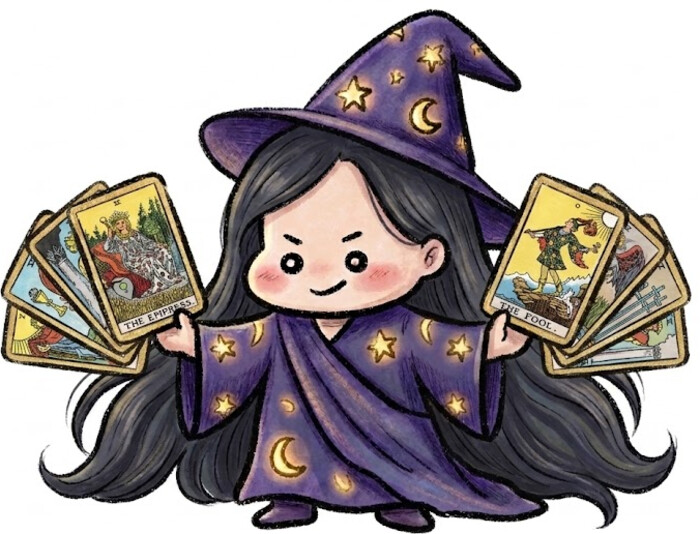
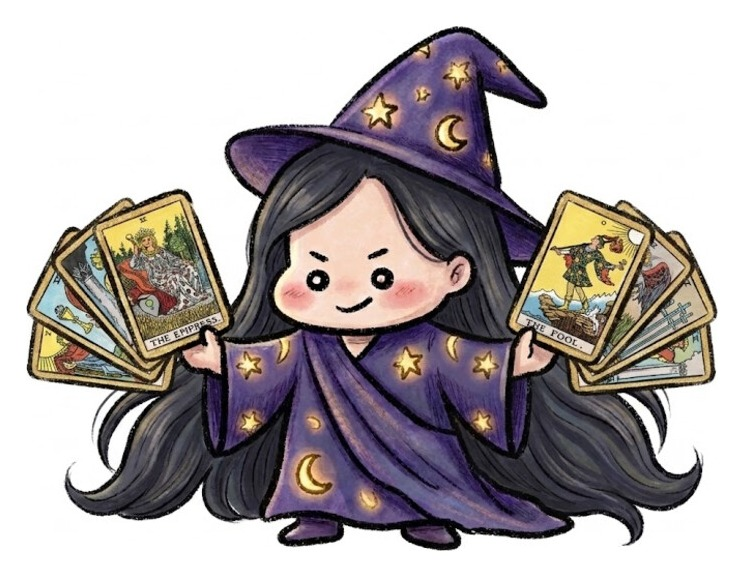
타로 수정

diff --git a/tests/tarot/index.html b/tests/tarot/index.html
@@ -51,7 +51,9 @@
 
   <div class="tarot-stage hidden" id="tarotStage">
     <div class="tarot-flip-card" id="tarotFlipCard">
-      <div class="tarot-flip-face tarot-flip-face-back">🔮</div>
+      <div class="tarot-flip-face tarot-flip-face-back">
+        <img class="tarot-card-back-img" src="../../assets/img/tarot/card-back.jpg" alt="" />
+      </div>
       <div class="tarot-flip-face tarot-flip-face-front" id="tarotFrontFace"></div>
     </div>
   </div>
@@ -131,13 +133,43 @@
     var currentCategory = "all";
     var drawing = false;
     var currentDraw = null;
+    var CARD_BACK_IMG = "../../assets/img/tarot/card-back.jpg";
 
-    // 78장 카드 그리드를 만든다 (앞면은 안 보이고 전부 같은 뒷면)
+    // 78장을 메이저/수트별로 나눠서 각 줄을 부채꼴(fan)로 펼친다 — 스크롤 없이 전부 노출
+    var FAN_GROUPS = [
+      { label: "🌙 메이저 아르카나", test: function (c) { return c.arcana === "major"; } },
+      { label: "🔥 완드", test: function (c) { return c.suit === "wands"; } },
+      { label: "💧 컵", test: function (c) { return c.suit === "cups"; } },
+      { label: "⚔ 소드", test: function (c) { return c.suit === "swords"; } },
+      { label: "🪙 펜타클", test: function (c) { return c.suit === "pentacles"; } },
+    ];
+
     function buildGrid() {
       var html = "";
-      for (var i = 0; i < TAROT_CARDS.length; i++) {
-        html += '<button type="button" class="tarot-grid-card" data-idx="' + i + '">🔮</button>';
-      }
+      FAN_GROUPS.forEach(function (group) {
+        var indices = [];
+        for (var i = 0; i < TAROT_CARDS.length; i++) {
+          if (group.test(TAROT_CARDS[i])) indices.push(i);
+        }
+        var n = indices.length;
+        var arc = Math.min(46, 16 + n * 1.15); // 카드 수가 많을수록 더 넓게 펼침
+        var edgeMargin = 8; // 양 끝 카드가 줄 밖으로 잘려나가지 않도록 여백(%)
+
+        html += '<div class="tarot-fan-row-label">' + group.label + " · " + n + "장</div>";
+        html += '<div class="tarot-fan-row">';
+        indices.forEach(function (idx, pos) {
+          var t = n === 1 ? 0.5 : pos / (n - 1);
+          var angle = -arc + t * arc * 2;
+          var bump = Math.sin(t * Math.PI) * 12; // 가운데가 살짝 위로 볼록해지는 부채꼴 곡선
+          var leftPct = edgeMargin + t * (100 - edgeMargin * 2);
+          html +=
+            '<button type="button" class="tarot-grid-card" data-idx="' + idx + '" ' +
+            'style="--x:' + leftPct.toFixed(2) + '%; --rot:' + angle.toFixed(1) + 'deg; --bump:' + bump.toFixed(1) + 'px; --z:' + (pos + 1) + ';">' +
+            '<img class="tarot-card-back-img" src="' + CARD_BACK_IMG + '" alt="" />' +
+            "</button>";
+        });
+        html += "</div>";
+      });
       gridEl.innerHTML = html;
       gridEl.classList.remove("disabled");
       Array.prototype.forEach.call(gridEl.querySelectorAll(".tarot-grid-card"), function (el) {
@@ -165,16 +197,18 @@
     function buildFrontFace(draw) {
       var card = draw.card;
       var reversed = draw.reversed;
+      // 역방향이어도 카드 "그림"만 뒤집어서 보여주고, 카드 이름/뱃지 텍스트는 항상 똑바로 읽히게 함
+      var revClass = reversed ? " is-reversed" : "";
       frontFace.innerHTML =
         (card.img
-          ? '<img class="tarot-card-img" src="' + card.img + '" alt="' + card.name + ' 타로카드" loading="lazy" ' +
-            'onerror="this.replaceWith(Object.assign(document.createElement(\'div\'),{className:\'tarot-emoji\',textContent:\'' + card.emoji + '\'}))" />'
-          : '<div class="tarot-emoji">' + card.emoji + "</div>") +
+          ? '<img class="tarot-card-img' + revClass + '" src="' + card.img + '" alt="' + card.name + ' 타로카드" loading="lazy" ' +
+            'onerror="this.replaceWith(Object.assign(document.createElement(\'div\'),{className:\'tarot-emoji' + revClass + '\',textContent:\'' + card.emoji + '\'}))" />'
+          : '<div class="tarot-emoji' + revClass + '">' + card.emoji + "</div>") +
         '<div class="tarot-name-en">' + card.nameEn + "</div>" +
         '<div class="tarot-name-ko">' + card.name + "</div>" +
         '<div class="tarot-orientation" style="background:' + card.color + ';">' +
         (reversed ? "역방향 · 조심스러운 기운" : "정방향 · 좋은 기운") + "</div>";
-      frontFace.style.transform = reversed ? "rotateY(180deg) rotate(180deg)" : "rotateY(180deg)";
+      frontFace.style.transform = "rotateY(180deg)";
     }
 
     function showResult(draw) {
@@ -224,11 +258,11 @@
       var originRect = originEl.getBoundingClientRect();
       var flying = document.createElement("div");
       flying.className = "tarot-flying-card";
-      flying.textContent = "🔮";
       flying.style.width = originRect.width + "px";
       flying.style.height = originRect.height + "px";
       flying.style.left = originRect.left + "px";
       flying.style.top = originRect.top + "px";
+      flying.style.backgroundImage = "url('" + CARD_BACK_IMG + "')";
       document.body.appendChild(flying);
 
       var targetW = 220;

diff --git a/assets/css/style.css b/assets/css/style.css
@@ -1032,9 +1032,16 @@ a {
 }
 
 .tarot-flip-face-back {
-  background: linear-gradient(145deg, #2e1065, #4c1d95 55%, #7c3aed);
-  font-size: 54px;
-  color: rgba(255, 255, 255, 0.9);
+  background: #2e1065;
+  overflow: hidden;
+  padding: 0;
+}
+
+.tarot-flip-face-back .tarot-card-back-img {
+  width: 100%;
+  height: 100%;
+  object-fit: cover;
+  display: block;
 }
 
 .tarot-flip-face-front {
@@ -1058,6 +1065,12 @@ a {
 .tarot-flip-face-front .tarot-emoji {
   font-size: 46px;
   margin-bottom: 8px;
+}
+
+/* 역방향 카드는 그림만 180도 뒤집어서 보여주고, 이름/뱃지 텍스트는 똑바로 읽히게 유지 */
+.tarot-flip-face-front .tarot-card-img.is-reversed,
+.tarot-flip-face-front .tarot-emoji.is-reversed {
+  transform: rotate(180deg);
 }
 
 .tarot-flip-face-front .tarot-name-en {
@@ -1171,54 +1184,69 @@ a {
   color: var(--text-main);
 }
 
-/* 78장 카드 그리드 */
+/* 78장 카드 - 수트별로 줄을 나눠 부채꼴(fan)로 펼쳐서 스크롤 없이 한 번에 노출 */
 .tarot-grid-wrap {
-  max-height: 340px;
-  overflow-y: auto;
-  padding: 4px;
+  padding: 4px 2px 8px;
   margin-bottom: 6px;
   border-radius: var(--radius-md);
   background: rgba(124, 58, 237, 0.04);
 }
 
 .tarot-grid {
-  display: grid;
-  grid-template-columns: repeat(8, 1fr);
-  gap: 5px;
+  display: block;
+}
+
+.tarot-fan-row-label {
+  font-size: 12px;
+  font-weight: 800;
+  color: var(--text-sub);
+  margin: 10px 6px 2px;
+}
+
+.tarot-fan-row-label:first-child {
+  margin-top: 4px;
+}
+
+.tarot-fan-row {
+  position: relative;
+  height: 108px;
 }
 
 .tarot-grid-card {
-  position: relative;
+  position: absolute;
+  top: 50%;
+  left: var(--x, 50%);
+  width: 42px;
   aspect-ratio: 2 / 3;
   border-radius: 5px;
-  border: 1px solid rgba(255, 255, 255, 0.35);
+  border: 1px solid rgba(255, 255, 255, 0.4);
   background: linear-gradient(145deg, #2e1065, #4c1d95 55%, #7c3aed);
   cursor: pointer;
   padding: 0;
-  display: flex;
-  align-items: center;
-  justify-content: center;
-  color: rgba(255, 255, 255, 0.75);
-  font-size: 9px;
+  overflow: hidden;
+  transform: translate(-50%, calc(-50% - var(--bump, 0px))) rotate(var(--rot, 0deg));
+  z-index: var(--z, 1);
+  box-shadow: 0 3px 8px rgba(46, 16, 101, 0.35);
   transition: transform 0.12s ease, opacity 0.3s ease, box-shadow 0.12s ease;
 }
 
-.tarot-grid-card::after {
-  content: "";
-  position: absolute;
-  inset: 2px;
-  border: 1px solid rgba(255, 255, 255, 0.3);
-  border-radius: 3px;
+.tarot-grid-card .tarot-card-back-img {
+  display: block;
+  width: 100%;
+  height: 100%;
+  object-fit: cover;
+  border-radius: 4px;
+  pointer-events: none;
 }
 
 .tarot-grid-card:active {
-  transform: scale(0.92);
+  transform: translate(-50%, calc(-50% - var(--bump, 0px))) rotate(var(--rot, 0deg)) scale(0.92);
 }
 
 .tarot-grid-card.picked {
-  box-shadow: 0 0 0 2px #fff, 0 6px 16px rgba(76, 29, 149, 0.5);
-  transform: scale(1.12);
-  z-index: 5;
+  transform: translate(-50%, calc(-50% - var(--bump, 0px))) rotate(var(--rot, 0deg)) scale(1.22) translateY(-10px);
+  box-shadow: 0 0 0 2px #fff, 0 10px 22px rgba(76, 29, 149, 0.55);
+  z-index: 999 !important;
 }
 
 .tarot-grid.disabled .tarot-grid-card {
@@ -1233,16 +1261,13 @@ a {
 .tarot-flying-card {
   position: fixed;
   border-radius: 8px;
-  background: linear-gradient(145deg, #2e1065, #4c1d95 55%, #7c3aed);
+  background-color: #2e1065;
+  background-size: cover;
+  background-position: center;
   border: 2px solid rgba(255, 255, 255, 0.4);
   box-shadow: 0 10px 24px rgba(76, 29, 149, 0.4);
   z-index: 999;
   pointer-events: none;
-  display: flex;
-  align-items: center;
-  justify-content: center;
-  font-size: 28px;
-  color: rgba(255, 255, 255, 0.85);
   transition: transform 0.55s cubic-bezier(0.22, 0.9, 0.3, 1), opacity 0.25s ease 0.4s;
 }
 
